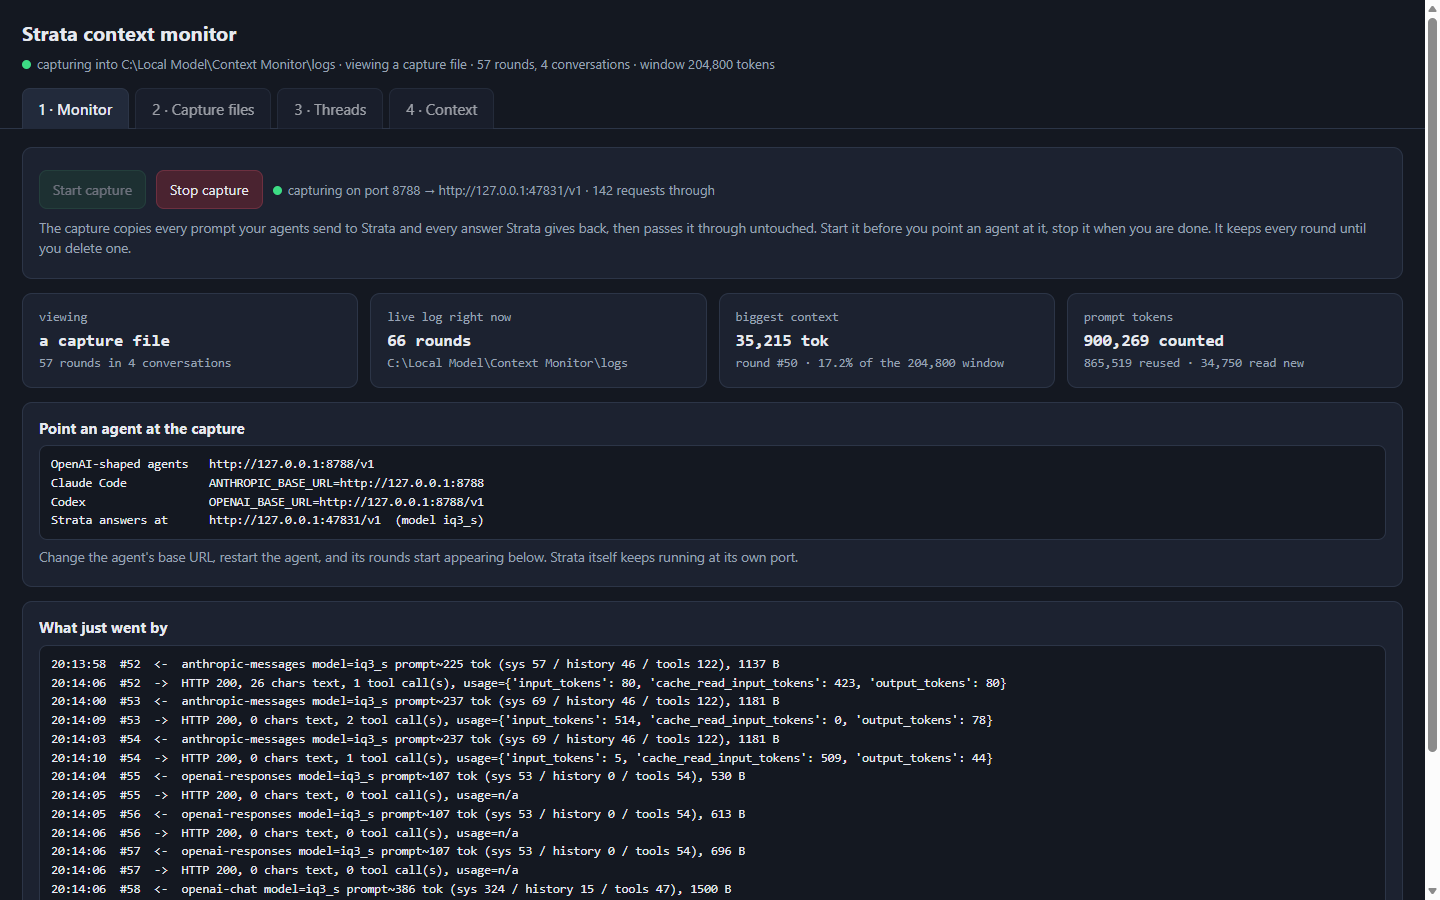
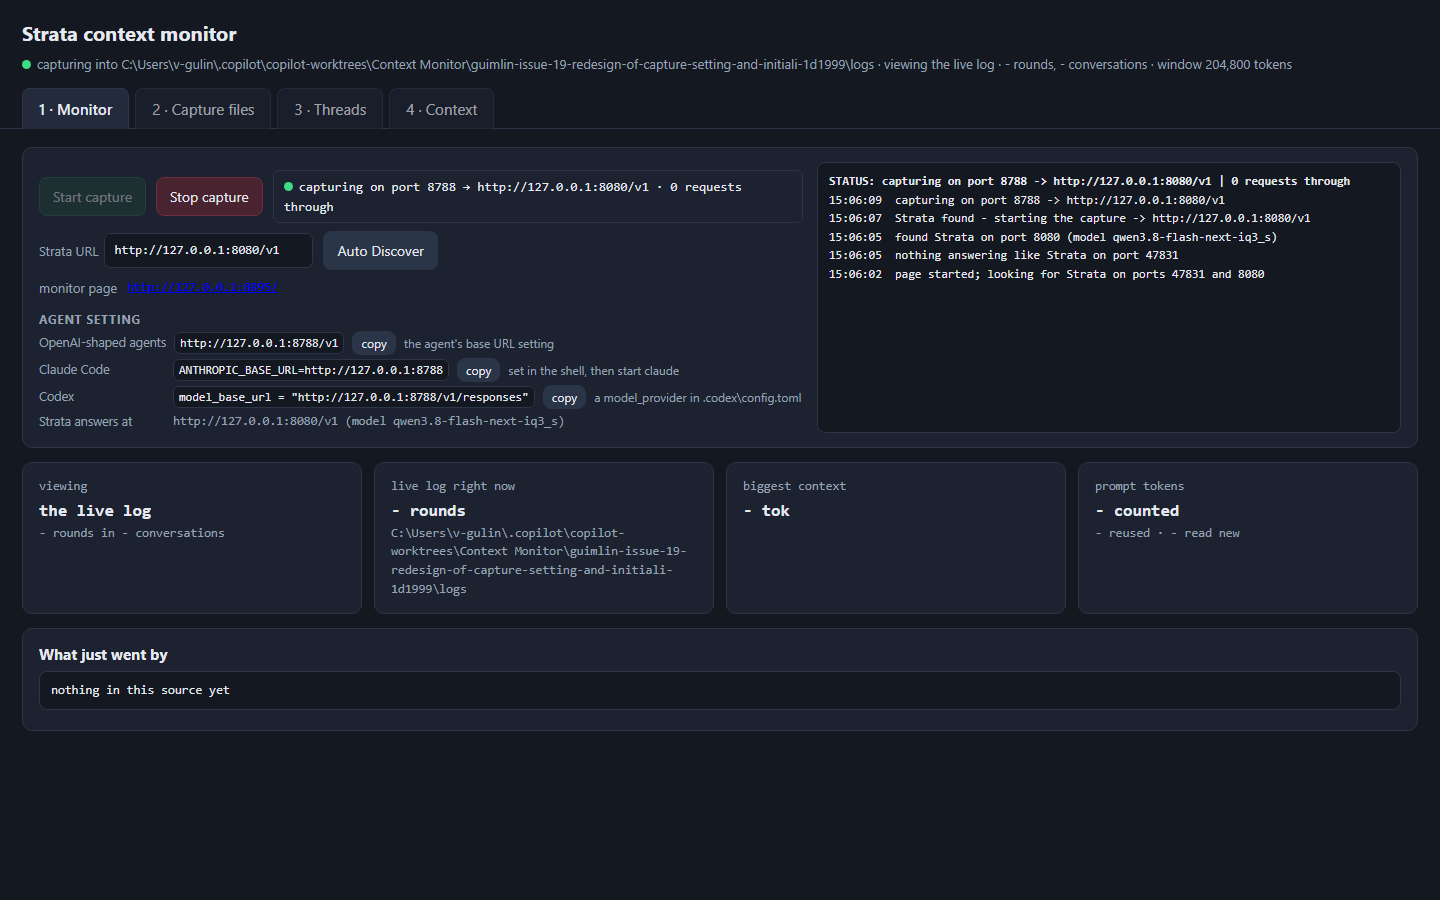
Refresh the monitor screenshot, and give the status log more room
docs/web-monitor.png still showed the old tab 1 with the capture port box and the
"Point an agent at the capture" card. It is now a shot of the tab as it stands:
status box beside Stop capture, no port box, the compact Agent setting block.

The log box grows to 380px so the STATUS line and more of the discovery tail are
visible without scrolling.

diff --git a/ctxweb.py b/ctxweb.py
@@ -868,7 +868,7 @@ iframe { width:100%; height:74vh; border:1px solid var(--line); border-radius:10
 .row { display:flex; gap:10px; align-items:center; flex-wrap:wrap; margin:8px 0 }
 .monitor { display:flex; gap:14px; align-items:stretch; flex-wrap:wrap }
 .monitor .controls { flex:1 1 480px }
-.logbox { flex:1 1 300px; max-height:250px; min-height:120px; overflow:auto; margin:0;
+.logbox { flex:1 1 300px; max-height:380px; min-height:120px; overflow:auto; margin:0;
           font-size:12px; line-height:1.55 }
 .logbox .st { color:var(--ink); font-weight:600 }
 .statusbox { flex:1 1 220px; border:1px solid var(--line); border-radius:6px;
